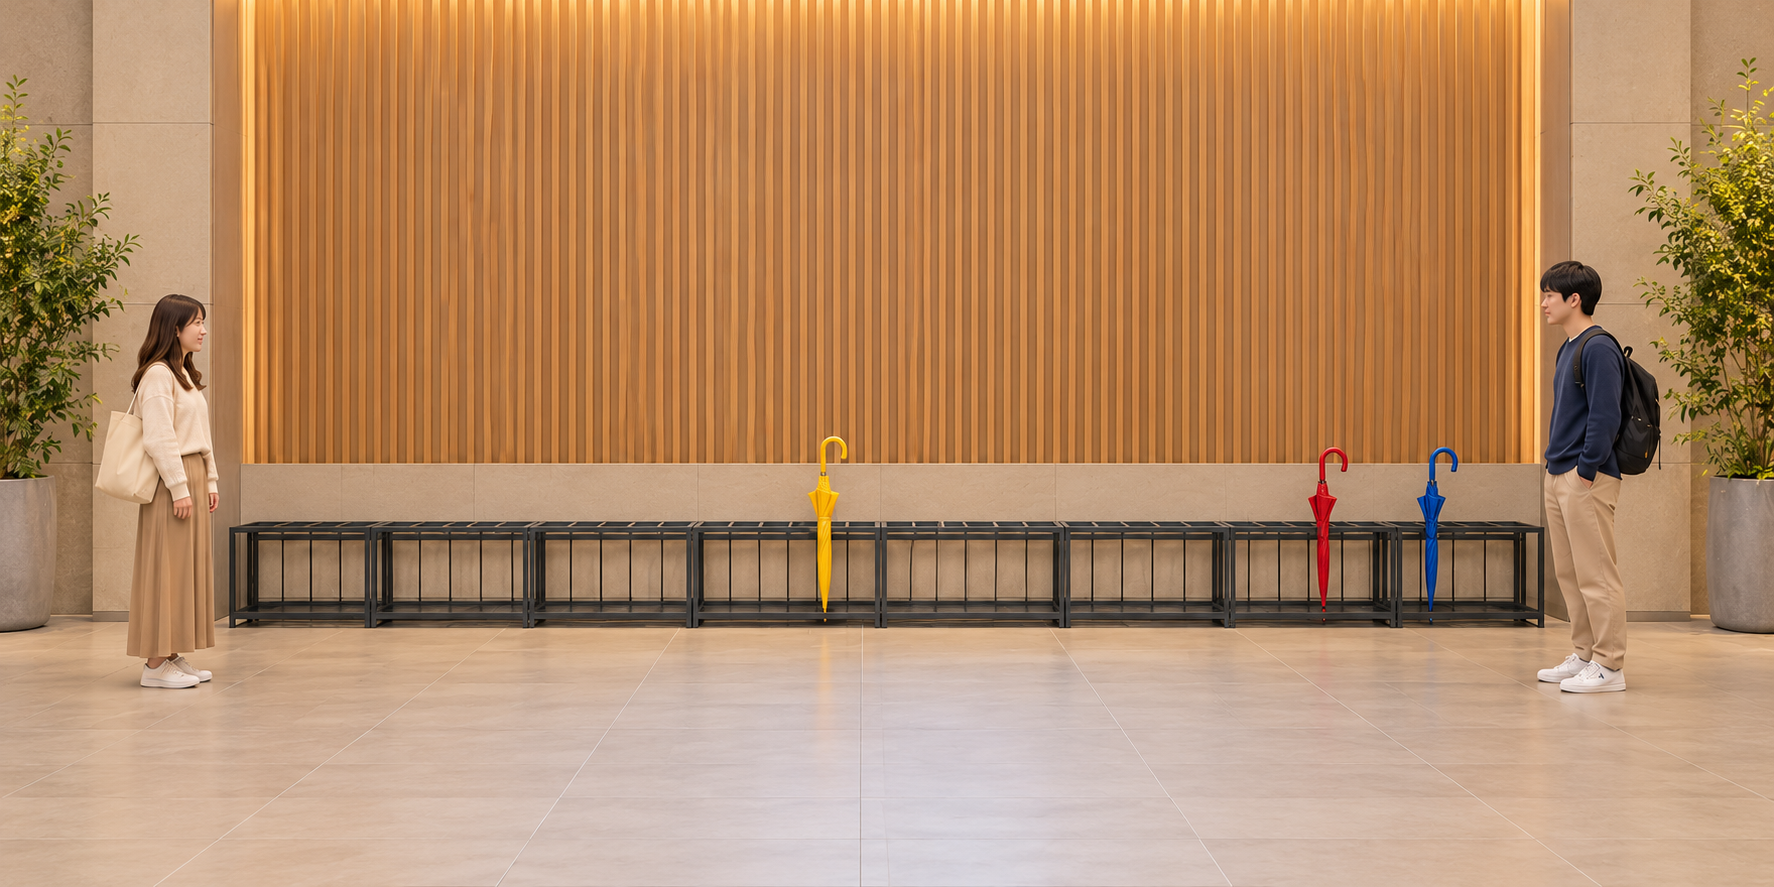
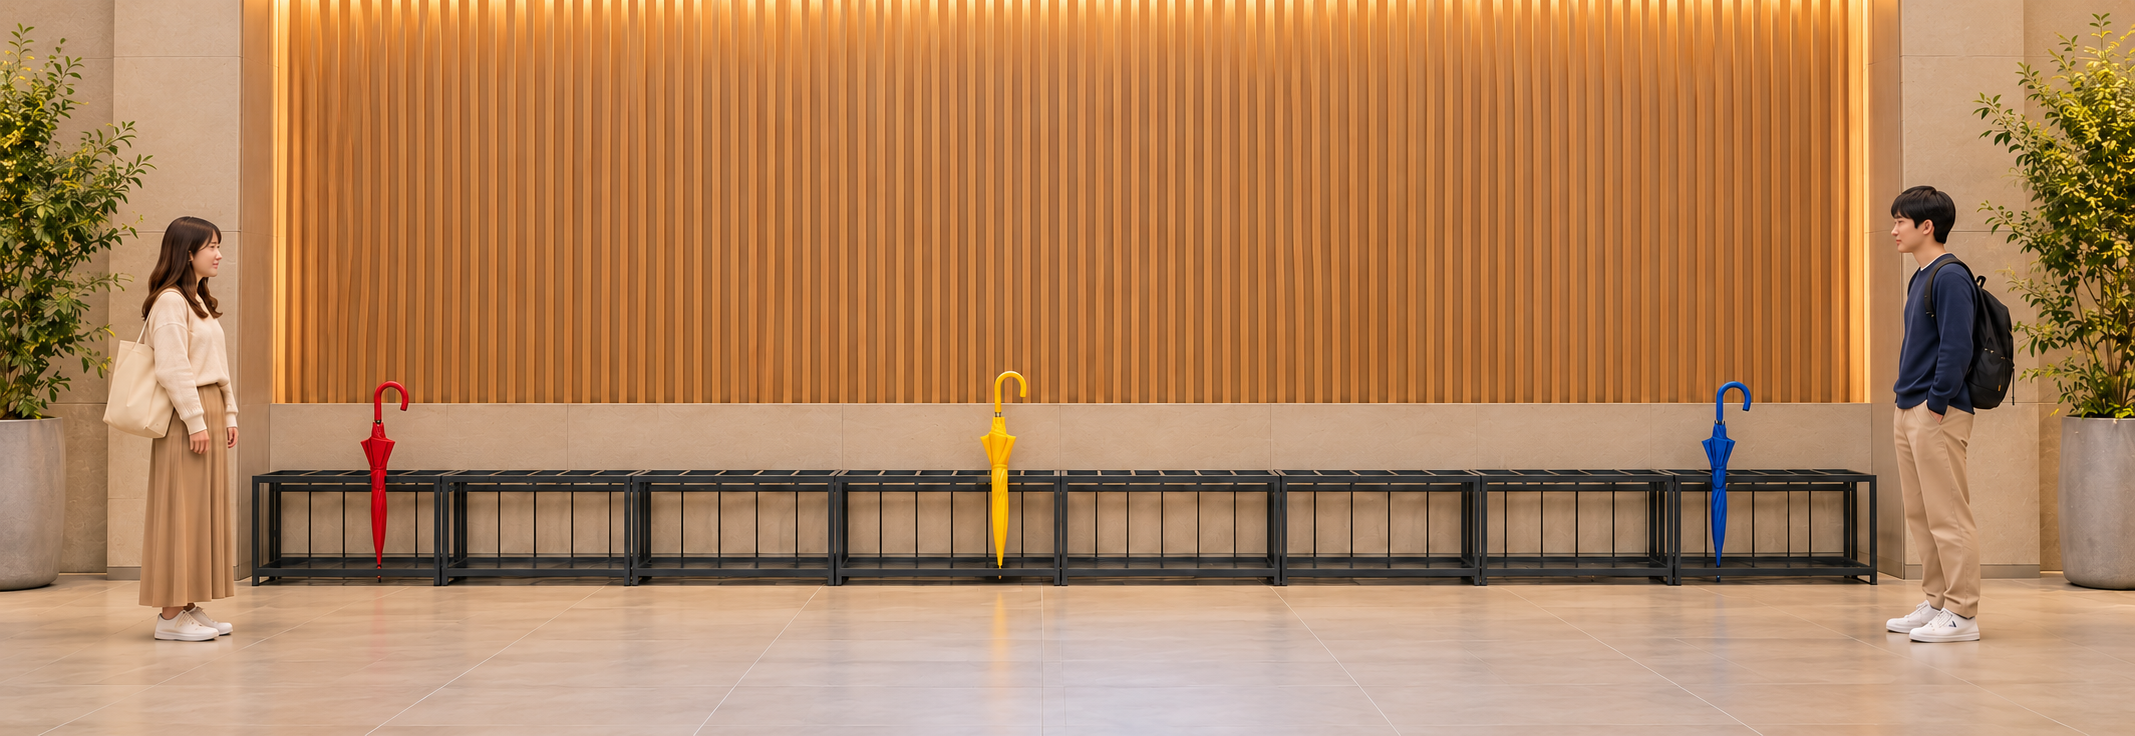
Restore umbrella positions and widen scene crop

diff --git a/practice2-next.js b/practice2-next.js
@@ -1777,16 +1777,16 @@ function practice2ShowNotice(resultSpan, message) {
     }
 
     function renderUmbrellaComparison(container) {
-        panel(container,'Drill 5: どのかさ・どれ','💡Compare the same umbrella: どのかさ → そのかさ; どれ → それ.');
+        panel(container,'Drill 5: どのかさ・どれ','💡Compare the same umbrella: どのかさ → このかさ; どれ → これ.');
         const picture=node('div','p2x-picture p2x-umbrella-picture'),stage=node('div','p2x-stage');
-        const photo=node('img','p2x-photo');photo.src='assets/practice22-umbrellas.png';photo.width=1774;photo.height=887;
-        photo.alt='A stands at the left and B at the right of a long umbrella rack. A’s red umbrella and B’s blue umbrella are both near B. The teacher’s yellow umbrella is far from both.';stage.append(photo);
+        const photo=node('img','p2x-photo');photo.src='assets/practice22-umbrellas.png';photo.width=2135;photo.height=736;
+        photo.alt='A stands at the left and B at the right of a long umbrella rack. A’s red umbrella is near A and B’s blue umbrella is near B. The teacher’s yellow umbrella is far from both.';stage.append(photo);
         for(const who of ['A','B']){const label=node('strong','p2x-person',who);label.dataset.person=who;stage.append(label);}
-        const umbrellas=[{owner:'A',zone:'B',x:74.6,label:'Aさんの'},{owner:'B',zone:'B',x:80.7,label:'Bさんの'},{owner:'teacher',zone:'far',x:46.6,label:word('せんせいの','先生の')}];
+        const umbrellas=[{owner:'A',zone:'A',x:17.7,label:'Aさんの'},{owner:'B',zone:'B',x:80.7,label:'Bさんの'},{owner:'teacher',zone:'far',x:46.6,label:word('せんせいの','先生の')}];
         for(const o of umbrellas){const target=node('span','p2x-umbrella-target');target.dataset.owner=o.owner;target.style.left=o.x+'%';target.append(node('span','p2x-umbrella-owner',o.label));imageHint(target,{hintText:o.label+word('かさ','傘')});target.setAttribute('aria-label',o.label+word('かさ','傘'));stage.append(target);}
         picture.append(stage);container.append(picture);
         const select=(who,owner)=>{picture.dataset.speaker=who;stage.querySelectorAll('.p2x-umbrella-target').forEach(e=>e.classList.toggle('is-target',e.dataset.owner===owner));};
-        const turns=[{asker:'B',answerer:'A',o:umbrellas[0],adj:'その',pro:'それ'},{asker:'A',answerer:'B',o:umbrellas[1],adj:'この',pro:'これ'},{asker:'B',answerer:'A',o:umbrellas[2],adj:'あの',pro:'あれ'}];
+        const turns=[{asker:'B',answerer:'A',o:umbrellas[0],adj:'この',pro:'これ'},{asker:'A',answerer:'B',o:umbrellas[1],adj:'この',pro:'これ'},{asker:'B',answerer:'A',o:umbrellas[2],adj:'あの',pro:'あれ'}];
         const umbrella=()=>word('かさ','傘');
         turns.forEach(({asker,answerer,o,adj,pro},i)=>{
             const current=card(container,String(i+1));

diff --git a/style.css b/style.css
@@ -3098,12 +3098,12 @@ body[data-practice="2.3"] .tooltip-tip { position: fixed; left: 12px; top: 12px;
 
 /* D5 compares two forms against the same umbrella scene. */
 .p2x-umbrella-picture { width: 60%; margin: 12px auto; }
-.p2x-umbrella-picture .p2x-stage { aspect-ratio: 3 / 1; }
-.p2x-umbrella-picture .p2x-photo { top: -18%; }
-.p2x-umbrella-picture .p2x-person { top: 64%; }
+.p2x-umbrella-picture .p2x-stage { aspect-ratio: 4 / 1; }
+.p2x-umbrella-picture .p2x-photo { top: -26%; }
+.p2x-umbrella-picture .p2x-person { top: 54%; }
 .p2x-umbrella-picture .p2x-person[data-person="A"] { left: 5%; }
 .p2x-umbrella-picture .p2x-person[data-person="B"] { right: 5%; }
-.p2x-umbrella-target { position: absolute; top: 53%; height: 37%; width: 7%; transform: translateX(-50%); border-radius: 5px; }
+.p2x-umbrella-target { position: absolute; top: 42%; height: 45%; width: 7%; transform: translateX(-50%); border-radius: 5px; }
 .p2x-umbrella-target.is-target { outline: 2px solid #2563eb; background: rgb(59 130 246 / 9%); }
 .p2x-umbrella-owner { position: absolute; top: 0; left: 50%; transform: translate(-50%,-100%); white-space: nowrap; padding: 1px 3px; color: #111827; background: #fffef0; border-radius: 3px; font-size: 13px; }
 .p2x-umbrella-target[data-owner="A"] .p2x-umbrella-owner { left: -15%; }

diff --git a/docs/PRACTICE22_23_SPEC.md b/docs/PRACTICE22_23_SPEC.md
@@ -73,10 +73,10 @@
 ### D5：どのかさ・どれの比較
 
 - 同じ傘情報・同じ3つの会話でAdjectives（どのかさ→この/その/あのかさ）とPronouns（どれ→これ/それ/あれ）を比較する独立Drill。各問題カードにAdjectivesのQ/R、PronounsのQ/Rを縦に置く。合計3問×4行。Exampleは追加しない。
-- 質問/返答話者は1 B→A、2 A→B、3 B→A。両形式で同一。1 B「Aさんのかさ／どのかさ」→A「そのかさ」、2 A「Bさんのかさ／どのかさ」→B「このかさ」、3 B「せんせいのかさ／どのかさ」→A「あのかさ」。Pronounsはどのかさをどれ、返答をそれ/これ/あれへ置き換える。
-- 画像は案③の長い傘立て。指定返答に整合させるため、A所有の赤傘とB所有の青傘の両方をB側、先生所有の黄傘を二人から離れた中央に置く。所有者と近接領域を混同しない。所有札はAさんの/Bさんの/先生のを示し、色は回答に使わない。領域概念の色面やWhoガイドはDrillに追加しない。
-- 写真は既存Drillと同じ60%（900px以下100%）、表示窓は3:1へトリミングし上部の壁/下部床の不要部分を省く。人物A/B・所有札・Hover領域は可視写真内に置く。再生/録音に同期して話者A/Bを赤点滅し対象傘を強調する。
-- 説明は「💡Compare the same umbrella: どのかさ → そのかさ; どれ → それ.」。キューに未指定スペースを入れず、所有名詞句とどのかさをDisplayでも1語句として保つ。語彙/画像Hover継承。
+- 質問/返答話者は1 B→A、2 A→B、3 B→A。両形式で同一。1 B「Aさんのかさ／どのかさ」→A「このかさ」、2 A「Bさんのかさ／どのかさ」→B「このかさ」、3 B「せんせいのかさ／どのかさ」→A「あのかさ」。Pronounsはどのかさをどれ、返答をこれ/これ/あれへ置き換える。
+- 画像は案③の長い傘立て。配置を元の③へ戻し、A所有の赤傘をA側、B所有の青傘をB側、先生所有の黄傘を二人から離れた中央に置く。返答を配置へ合わせ、1Aはこのかさ/これ。所有者と近接領域を混同しない。所有札はAさんの/Bさんの/先生のを示し、色は回答に使わない。領域概念の色面やWhoガイドはDrillに追加しない。
+- 写真は既存Drillと同じ60%（900px以下100%）、表示窓は4:1へトリミングし上部の壁/下部床の不要部分を省く。人物A/B・所有札・Hover領域は可視写真内に置く。再生/録音に同期して話者A/Bを赤点滅し対象傘を強調する。
+- 説明は「💡Compare the same umbrella: どのかさ → このかさ; どれ → これ.」。キューに未指定スペースを入れず、所有名詞句とどのかさをDisplayでも1語句として保つ。語彙/画像Hover継承。
 - モデルは「Aさんの傘はどの傘ですか／Aさんの傘はどれですか」等、返答は指定の短答。対応する所有名詞句を補った全文も許容。比較する形が学習対象のため、Adjectives返答にそれ等の代名詞だけ、Pronouns返答にその傘等の名詞句は不可。「そのです」や誤った指示語も不可。
 - 録音キーはp22_d5_adjective/pronoun_{0..2}_q/rで独立。設定/セット再描画で録音/認識/判定を保持し、マイク準備/録音中はD5を含む他行・設定を既存排他ロックに含める。D5内での2形式間も同じきく列を共有する。
 

diff --git a/docs/HANDOVER.md b/docs/HANDOVER.md
@@ -1,5 +1,9 @@
 # October2026 作業引き継ぎ・進捗記録（HANDOVER）
 
+- 検証：practice22-umbrellas.cjs 318項目合格（新配置のモデル/判定・全Speech/Script、録音/ロック/保持、375/600/1440通常ダークの人物/所有札枠内）。構文/差分正常。横長化後の人物札を54%へ上げて狭幅の下切れを解消。
+
+- 2026-10-29 / Codex：開始main 602c42f、同期クリーン確認。ユーザー訂正：D5傘は元の③配置維持。赤A側/青B側/黄中央遠方へ画像差替、上下をさらに省いて4:1表示。1A返答をこのかさ/これへ、2Bこのかさ/これ、3Aあのかさ/あれは維持。モデル/判定/説明/画像座標・仕様を同時修正。生成原本exec-49994f0b-a9f5-4f43-aea9-cc67b3bd7dd8.png保全。実機未確認。
+
 - D5検証：practice22-umbrellas.cjs 318項目（全Speech/Scriptモデル/形式誤答/対象傘と話者/録音ロックと保存保持/375・600・1440通常ダーク）合格。lesson2-speaker-pulse 1186、practice2-next 439、practice23-cities 2205、cue-spacing 2586行、section-spacing 52合格。初回狭幅は隠れたHover枠によるはみ出しがありD5内の初期tooltip位置と形式ラベル改行を修正、再検証合格。構文/差分正常。語彙枠224へ更新。公開実機未確認。
 
 - 2026-10-29 / Codex：開始main 379c585。2.2 D5どのかさ/どれ比較を新設。1 B→Aその傘/それ、2 A→Bこの傘/これ、3 B→Aあの傘/あれ。③長い傘立てを元に生成し、指定返答に整合するようA/B所有の傘を両方B側、先生の傘を中央遠方へ。所有札/語彙Hover/対象強調/話者赤点滅/既存録音判定・排他/独立キーを実装。形式の比較が目標なので形を取り違える回答は不可。生成原本exec-6251acb1-03c4-4b67-98ee-a4df7b3d4d65.png保全。実機未確認。

diff --git a/docs/PROJECT_SPEC.md b/docs/PROJECT_SPEC.md
@@ -1,6 +1,6 @@
 # October2026 機能仕様書（PROJECT_SPEC）
 
-- 練習2.2 D5：同じ傘を使ってどのかさ/どれを比較する3会話×2形式を追加。指定返答に合わせA/B所有の傘は両方B側、先生の傘は遠方。詳細はPRACTICE22_23_SPECの現行D5節。
+- 練習2.2 D5：同じ傘を使ってどのかさ/どれを比較する3会話×2形式を追加。元の③配置を維持しA所有はA側、B所有はB側、先生の傘は遠方。1Aの返答をこのかさ/これへ修正。詳細はPRACTICE22_23_SPECの現行D5節。
 
 練習2のキューに未指定のスペースを入れない。UI_LAYOUT_SPECの現行空白規則とCUE_SPACING_AUDITの一覧を参照。
 
